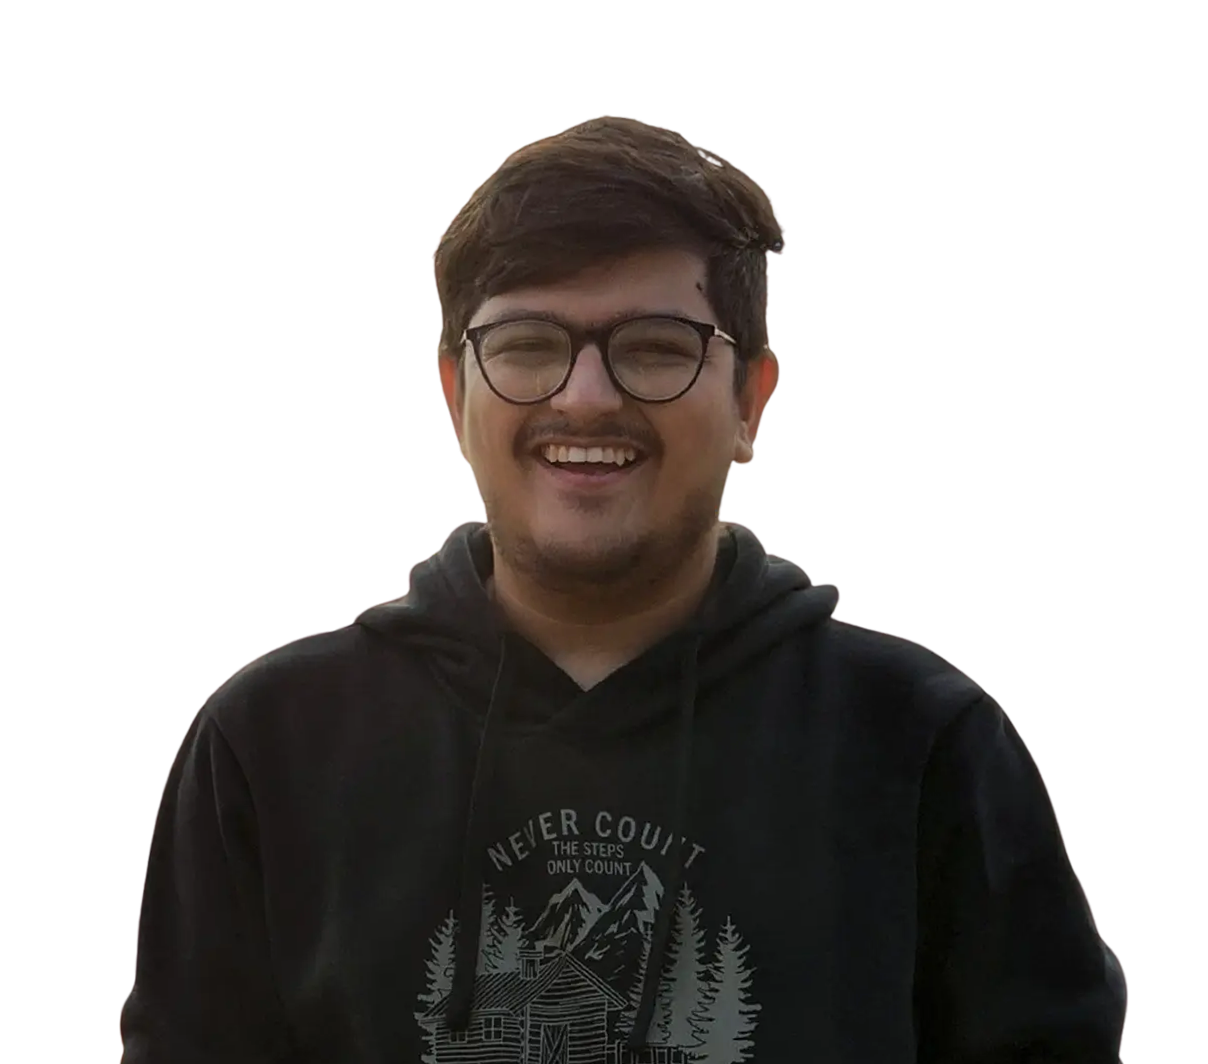
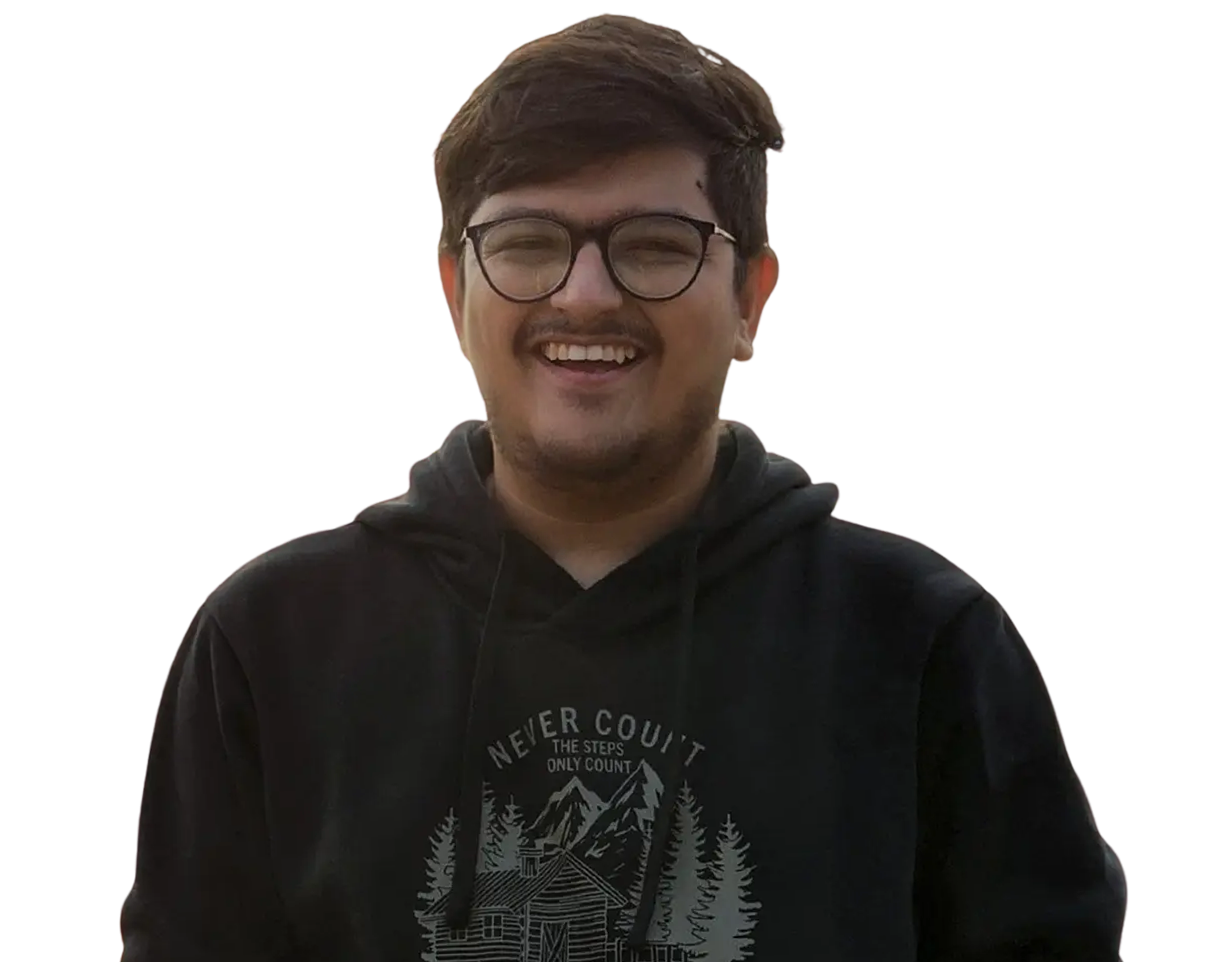
Fixed some Hero section layout & added social links and scroll to bottom

diff --git a/app/components/new/Hero.jsx b/app/components/new/Hero.jsx
@@ -2,10 +2,13 @@ import React from "react";
 import Link from "next/link";
 
 import {
+  RiArrowDownLine,
+  RiArrowRightLine,
   RiArrowRightUpLine,
   RiGithubFill,
   RiLinkedinBoxFill,
 } from "@remixicon/react";
+
 import Image from "next/image";
 
 const Hero = () => {
@@ -14,61 +17,109 @@ const Hero = () => {
       className="h-[100dvh] w-full bg-secondary px-5 pb-0 overflow-hidden"
       data-theme="dark"
     >
-      <div className="container mx-auto relative rounded-full flex flex-col  h-full justify-end items-center gap-10">
+      <div className="container mx-auto relative rounded-full flex flex-col  h-full justify-between items-center gap-10 max-w-[1280px] overflow-visible">
+        <div className="flex flex-col gap-8 z-10 items-center justify-center pt-[12%]">
         {/* Pill for available for freelance */}
-        <div className="flex items-center gap-3 px-5 py-2 rounded-full bg-white/10 backdrop-blur-xl border border-white/10 shadow-[0_4px_30px_rgba(0,0,0,0.1)] w-fit -mb-3 z-10 animate__animated animate__fadeInUp">
-          <div className="relative flex items-center justify-center">
-            <span className="absolute inline-flex h-4 w-4 rounded-full bg-green-400 opacity-60 animate-ping"></span>
-            <span className="relative inline-flex h-3 w-3 rounded-full bg-green-500"></span>
+          <div className="flex items-center gap-3 px-5 py-2 rounded-full bg-white/10 backdrop-blur-xl border border-white/10 shadow-[0_4px_30px_rgba(0,0,0,0.1)] w-fit -mb-3 z-10 animate__animated animate__fadeInUp">
+            <div className="relative flex items-center justify-center">
+              <span className="absolute inline-flex h-4 w-4 rounded-full bg-green-400 opacity-60 animate-ping"></span>
+              <span className="relative inline-flex h-3 w-3 rounded-full bg-green-500"></span>
+            </div>
+
+            <h5 className="text-lighttext text-sm md:text-base">
+              Available for Freelance
+            </h5>
           </div>
 
-          <h5 className="text-lighttext text-sm md:text-base font-medium">
-            Available for Freelance
-          </h5>
-        </div>
-
-        {/* Hero Content */}
-        <div className="flex flex-col gap-4 items-center justify-center z-10 text-center">
-          <h1 className="text-4xl lg:text-7xl text-lighttext font-bold animate__animated animate__fadeInUp">
-            I'm Manan Kanani
-          </h1>
-          <h2 className="text-xl lg:text-3xl text-lighttext font-medium animate__animated animate__fadeInUp">
-            Skilled Full-Stack Developer
-          </h2>
+          {/* Hero Content */}
+          <div className="flex flex-col gap-4 items-center justify-center z-10 text-center">
+            <h1 className="text-4xl lg:text-6xl text-lighttext font-bold animate__animated animate__fadeInUp">
+              I'm Manan Kanani
+            </h1>
+            <h2 className="text-xl lg:text-2xl text-lighttext font-medium animate__animated animate__fadeInUp">
+              Skilled Full-Stack Developer
+            </h2>
+          </div>
         </div>
 
         <Image
           src="/new/heroImg.png"
           alt="hero_Main_img"
-          width={600}
-          height={558}
-          className="max-sm:h-[400px] object-cover z-10 animate__animated animate__fadeInUp"
-        />
-        <Image
-          src="/new/bg-blur.png"
-          alt="bgblur_img"
-          width={700}
-          height={558}
-          className="absolute -bottom-2 right-0 w-full h-full z-0 animate__animated animate__fadeIn animate__slower"
-        />
+          width={500}
+          height={500}
+          className="w-2/6 max-sm:h-[300px] object-cover z-10 animate__animated animate__fadeInUp"
+        />    
 
+        {/* Button for Projects and About Me */}
         <div className="px-2 py-2 rounded-full bg-white/10 backdrop-blur-sm border border-white/10 shadow-[0_4px_30px_rgba(0,0,0,0.1)] w-fit absolute bottom-8 left-0 right-0 mx-auto z-10 flex items-center gap-3 animate__animated animate__fadeInUp">
           <Link
             href={"/portfolio"}
-            className="text-sm lg:text-base font-medium flex items-center gap-1 bg-lighttext py-3 px-8 lg:py-4 lg:px-10 rounded-full"
+            className="text-sm lg:text-base font-medium flex items-center gap-1 bg-lighttext py-3 px-8 lg:py-3 lg:px-8 rounded-full"
           >
             Projects
             <RiArrowRightUpLine />
           </Link>
           <Link
             href={"/about"}
-            className="text-lighttext text-sm lg:text-base font-medium flex items-center gap-1 py-3 px-4 lg:py-4 lg:px-5"
+            className="text-lighttext text-sm lg:text-base font-medium flex items-center gap-1 py-3 px-4 lg:py-3 lg:px-4"
           >
             About Me
             <RiArrowRightUpLine />
           </Link>
         </div>
+
+
+        {/* Social Links */}
+        <div className="absolute left-5 right-0 w-fit bottom-20 flex flex-col items-center gap-6 z-10 animate__animated animate__fadeInUp">
+        <a
+              className="text-lighttext hover:scale-110 duration-300 "
+              href="https://github.com/MananKanani5/"
+              target="_blank"
+              aria-label="Visit Manan Kanani's GitHub profile"
+              title="GitHub"
+            >
+              <RiGithubFill />
+            </a>
+            <a
+              className="text-lighttext hover:scale-110 duration-300 "
+              href="https://www.linkedin.com/in/manan-kanani/"
+              target="_blank"
+              aria-label="Visit Manan Kanani's LinkedIn profile"
+              title="LinkedIn"
+            >
+              <RiLinkedinBoxFill />
+            </a>
+            <a
+              className="text-lighttext hover:scale-110 duration-300 "
+              href="https://leetcode.com/manankanani/"
+              target="_blank"
+              aria-label="Visit Manan Kanani's LeetCode profile"
+              title="LeetCode"
+            >
+              <Image
+                src="/icons/leetcode.svg"
+                alt="leetcode"
+                width={21}
+                height={21}
+                className="duration-300"
+              />
+            </a>
+        </div>
+
+
+        <Link href="#about" className="absolute bottom-30 -right-6 w-fit h-fit flex gap-2 items-center z-10 animate__animated animate__fadeInUp rotate-90 text-lighttext text-sm tracking-wide group">
+          Scroll Down
+          <RiArrowRightLine className="text-lighttext group-hover:translate-x-1 duration-300" />
+        </Link>
       </div>
+
+      <Image
+          src="/new/bg-blur.png"
+          alt="bgblur_img"
+          width={800}
+          height={500}
+          className="absolute -bottom-2 left-0 right-0 w-full z-0 animate__animated animate__fadeIn animate__slower"
+        />
     </section>
   );
 };

diff --git a/app/components/new/Navbar.jsx b/app/components/new/Navbar.jsx
@@ -62,7 +62,7 @@ const Navbar = () => {
 
   return (
     <>
-      <header className="max-w-[90%] lg:max-w-7xl container mx-auto fixed top-7 left-0 right-0 z-[999] rounded-full bg-white/10 backdrop-blur-xl border border-white/10 shadow-[0_4px_30px_rgba(0,0,0,0.1)] lg:pl-8 lg:pr-3 px-5 animate__animated animate__fadeInDown py-3 flex items-center justify-between">
+      <header className="max-w-[90%] lg:max-w-7xl container mx-auto fixed top-6 left-0 right-0 z-[999] rounded-full bg-white/10 backdrop-blur-xl border border-white/10 shadow-[0_4px_30px_rgba(0,0,0,0.1)] lg:pl-8 lg:pr-2 px-5 animate__animated animate__fadeInDown py-2 flex items-center justify-between">
         <Link href={"/"} className="logo z-50">
           <span
             className={`font-bold text-3xl z-[999] ${theme === "light" ? "text-darktext" : "text-lighttext"} duration-300`}
@@ -89,7 +89,7 @@ const Navbar = () => {
 
         <div className="flex items-center gap-3">
           <a
-            className={`bg-primary hover:bg-primaryHover text-lighttext duration-300 lg:px-7 lg:py-3 px-5 py-2 rounded-full ${theme === "light" ? "bg-darktext text-lighttext" : "bg-lighttext text-darktext"}`}
+            className={`bg-primary hover:bg-primaryHover text-lighttext duration-300 lg:px-7 lg:py-2.5 px-5 py-2 rounded-full ${theme === "light" ? "bg-darktext text-lighttext" : "bg-lighttext text-darktext"}`}
             href="https://drive.google.com/file/d/1HjANFa43BbzdEr10es6t9ABqOeuSyKCE/view?usp=sharing"
             onClick={closeMenu}
             target="_blank"

diff --git a/app/components/AboutSection.jsx b/app/components/AboutSection.jsx
@@ -35,7 +35,7 @@ const AboutSection = () => {
   ];
 
   return (
-    <section className="w-full relative bg-lighttext z-40" data-theme="light">
+    <section className="w-full relative bg-lighttext z-40" data-theme="light" id="about">
       <div className="max-w-[1280px] mx-auto py-20 max-sm:px-5">
         <div className="aboutDetails">
           <h2 className="text-5xl text-center text-secondary font-bold mb-4 animate__animated animate__fadeIn">

diff --git a/app/globals.css b/app/globals.css
@@ -13,6 +13,7 @@ html,
 body {
   overflow-x: hidden;
   font-family: inherit;
+  scroll-behavior: smooth;
 }
 
 .no-scroll {
